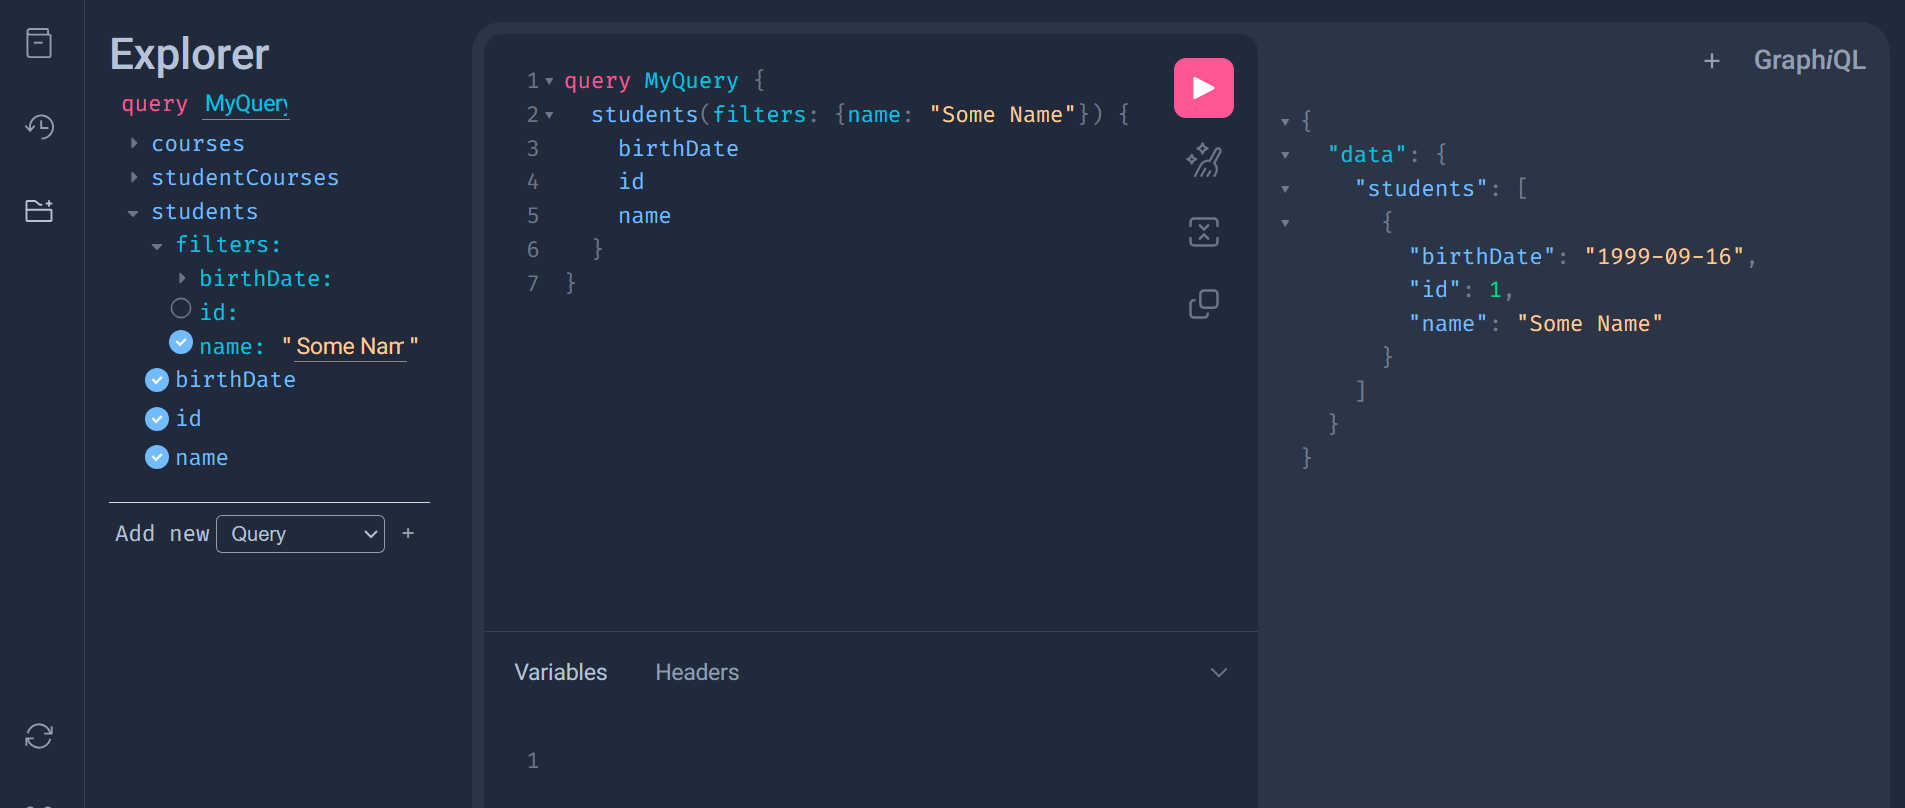
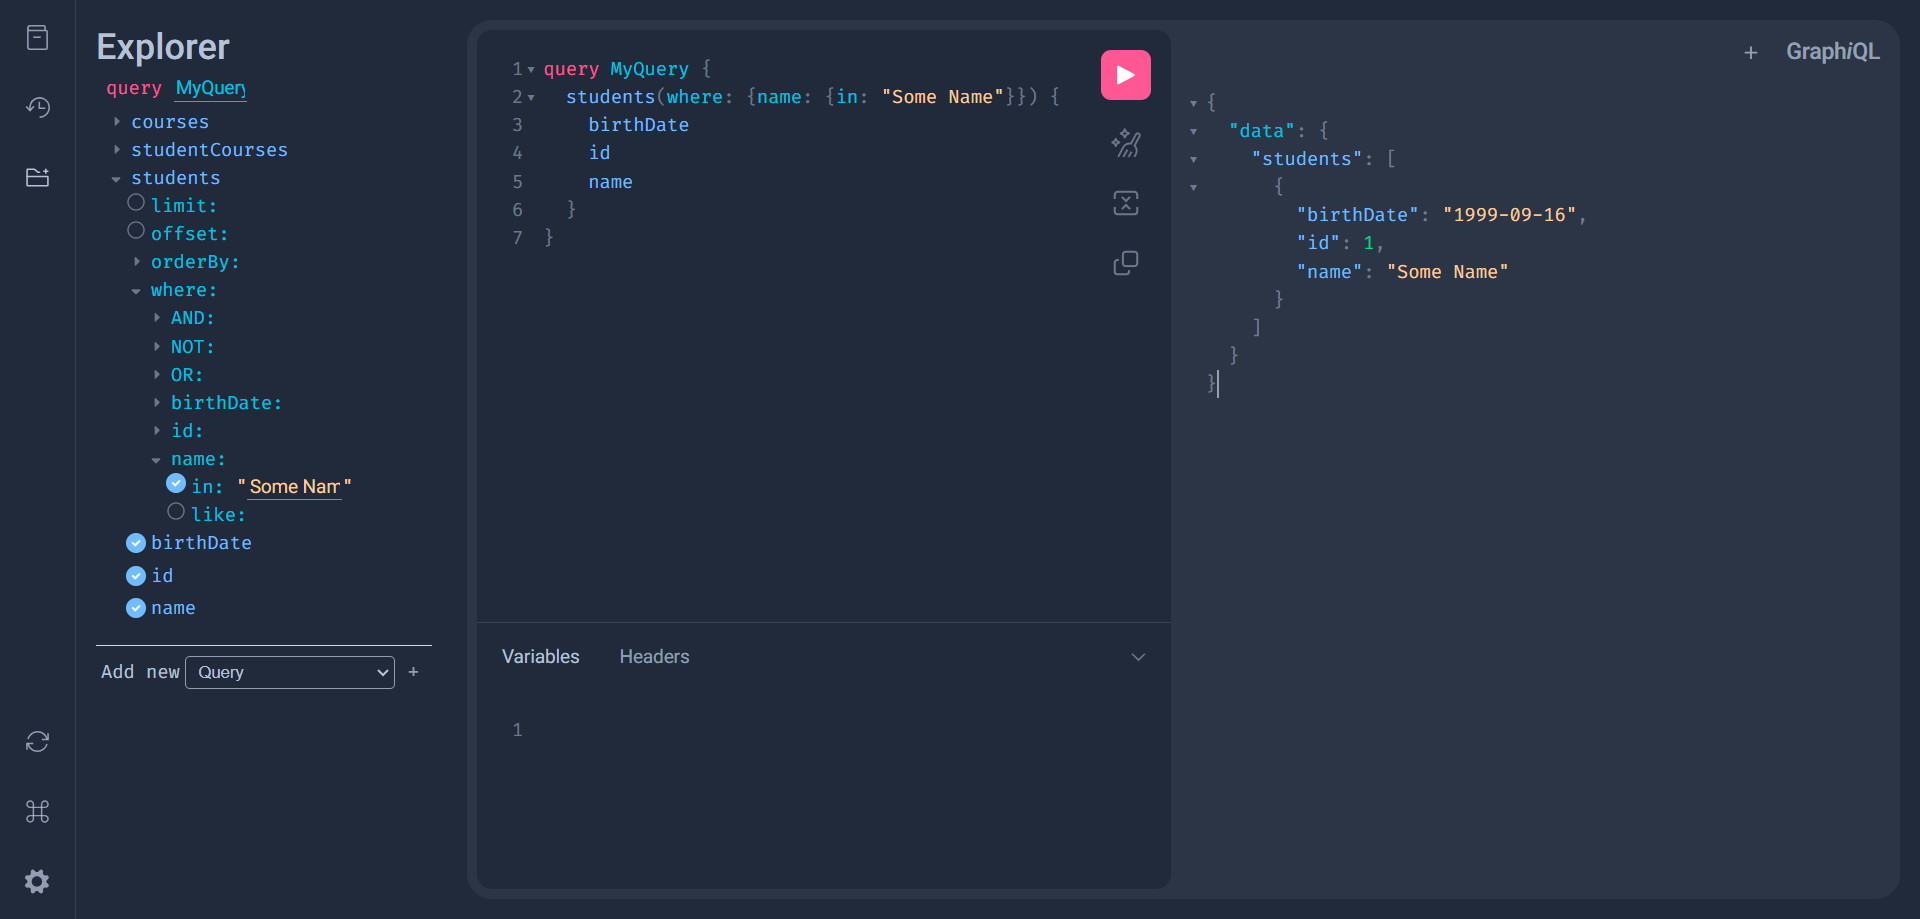
📚 docs: update examples

diff --git a/examples/tutorial/relationship/models.py b/examples/tutorial/relationship/models.py
@@ -3,13 +3,6 @@ from datetime import date
 from graphemy import Dl, Field, Graphemy
 
 
-class School(Graphemy, table=True):
-    id: int | None = Field(primary_key=True, default=None)
-    name: str
-    students: list["Student"] = Dl(source="id", target="school_id")
-    teachers: list["Teacher"] = Dl(source="id", target="school_id")
-
-
 class Teacher(Graphemy, table=True):
     id: int | None = Field(primary_key=True, default=None)
     name: str
@@ -55,3 +48,10 @@ class Grade(Graphemy, table=True):
         source=["student_id", "course_id"],
         target=["student_id", "course_id"],
     )
+
+
+class School(Graphemy, table=True):
+    id: int | None = Field(primary_key=True, default=None)
+    name: str
+    students: list["Student"] = Dl(source="id", target="school_id")
+    teachers: list["Teacher"] = Dl(source="id", target="school_id")

diff --git a/docs/Guide/Security.md b/docs/Guide/Security.md
@@ -12,9 +12,8 @@ In the most part of cases you will just need this method, because you want contr
 If we will use same logic to define the control aceess for every table in our api we can declare a function that will receive the class of the query (`Graphemy` model that you declared to represent the table that is been used), context of request and query type( string with the type of request: 'query', 'put_mutation', 'delete_mutation') and should return a boolen that indicate if this request has the needed permissions for the table.
 
 ``` python
-{!./examples/tutorial/auth/main.py[ln:37-39]!}
+{!./examples/tutorial/auth/main.py[ln:72-77]!}
 
-{!./examples/tutorial/auth/main.py[ln:60-61]!}
 ```
 
 /// note
@@ -22,7 +21,7 @@ If we will use same logic to define the control aceess for every table in our ap
 These Functions and the following functions should be passed to `GraphemyRouter`.
 
 ``` python
-{!./examples/tutorial/auth/main.py[ln:65-71]!}
+{!./examples/tutorial/auth/main.py[ln:81-87]!}
 ```
 
 for more details about context:[Strawberry](https://strawberry.rocks/docs/integrations/fastapi#context_getter).
@@ -46,9 +45,8 @@ Its a more complex access control, lets supose that some user can get data from 
 This function responsible to put a filter inside all main querys, using our example, we will have something like:
 
 ``` python
-{!./examples/tutorial/auth/main.py[ln:37-39]!}
+{!./examples/tutorial/auth/main.py[ln:66-69]!}
 
-{!./examples/tutorial/auth/main.py[ln:54-57]!}
 ```
 
 /// note
@@ -63,9 +61,8 @@ This function should return a SQLAlchemy filter statement.
 This function responsible to put a filter inside all main querys, using our example, we will have something like:
 
 ``` python
-{!./examples/tutorial/auth/main.py[ln:37-39]!}
+{!./examples/tutorial/auth/main.py[ln:54-63]!}
 
-{!./examples/tutorial/auth/main.py[ln:42-51]!}
 ```
 
 /// note

diff --git a/docs/Guide/Relationships.md b/docs/Guide/Relationships.md
@@ -5,9 +5,9 @@ Create a link between our two models is a very simple task with graphemy, we jus
 It works basicly like foreign keys in a convencional database.
 
 
-```Python  hl_lines="10 18"
+```Python  hl_lines="10 20"
 # models.py
-{!./examples/tutorial/relationship/models.py[ln:1-18]!}
+{!./examples/tutorial/relationship/models.py[ln:1-20]!}
 ```
 
 In this case the relationship `Teacher` -> `Course` will be done using field `teacher_id` of `Course` and field `id` of `Teacher`.
@@ -22,9 +22,9 @@ As the relationship `Teacher` -> `Course` is `1 -> N`, in this case we use `list
 
 Source and Target parameters can receive a list too, this is useful when you have tables that need many keys to be linked, for example:
 
-```Python  hl_lines="8-10 18-20"
+```Python  hl_lines="10-13 21-25"
 # models.py
-{!./examples/tutorial/relationship/models.py[ln:26-45]!}
+{!./examples/tutorial/relationship/models.py[ln:28-50]!}
 ```
 
 

diff --git a/docs/Guide/Models.md b/docs/Guide/Models.md
@@ -33,7 +33,7 @@ To help the imports you can import `Field` from graphemy, that is the same of `S
 
 Then, create a router based on this query and import it in a fastapi app.
 
-```Python hl_lines="9 20-22"
+```Python hl_lines="9 20-24"
 {!./examples/tutorial/basic/main.py!}
 ```
 
@@ -70,7 +70,7 @@ Now you have queries, put and delete mutations for both classes created
 
 ![strawberry basic_query](../assets/put_mutation.png){ width="800" .center}
 
-Note that every query already have a filter option where you can filter results by every column.
+Note that every query already have a **filter**, **sort** and **pagination** options.
 
 ![strawberry query_filter](../assets/basic_query.png){ width="800" .center}
 
